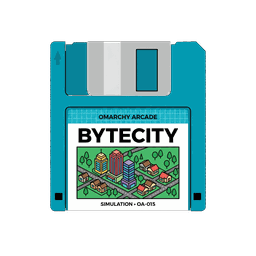
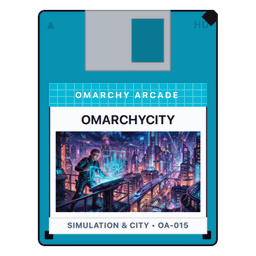
fix(docs): clarify floppy disk architecture, add automated render tool, and re-render bytecity from FloppyCard

diff --git a/tools/render_disk.py b/tools/render_disk.py
@@ -1,0 +1,155 @@
+#!/usr/bin/env python3
+"""
+Omarchy Arcade • Standard Floppy Disk Renderer
+Renders pixel-perfect, 1024x1024 and 256x256 3.5" floppy diskette cover art
+directly from launcher/FloppyCard.qml and catalog.json.
+
+Usage:
+    python tools/render_disk.py <game_id>
+    python tools/render_disk.py --all
+"""
+
+import os
+import sys
+import json
+import argparse
+from pathlib import Path
+from PIL import Image
+
+# Ensure project root is in working directory
+PROJECT_ROOT = Path(__file__).resolve().parent.parent
+os.chdir(PROJECT_ROOT)
+
+def render_floppy(game_id: str, catalog: dict):
+    from PySide6.QtGui import QGuiApplication, QImage, QPainter
+    from PySide6.QtQuick import QQuickView
+    from PySide6.QtCore import QUrl, QTimer, Qt, QRect
+
+    game_data = next((g for g in catalog.get("games", []) if g["id"] == game_id), None)
+    if not game_data:
+        print(f"Error: Game '{game_id}' not found in catalog.json", file=sys.stderr)
+        return False
+
+    print(f"Rendering floppy disk for {game_data.get('title', game_id)} ({game_id})...")
+
+    # Temporary QML wrapper
+    temp_qml = PROJECT_ROOT / f".temp_render_{game_id}.qml"
+    qml_content = """import QtQuick
+import "launcher"
+
+FloppyCard {
+    id: card
+    gameData: null
+}
+"""
+    temp_qml.write_text(qml_content, encoding="utf-8")
+
+    app = QGuiApplication.instance() or QGuiApplication(sys.argv[:1])
+
+    view = QQuickView()
+    view.setColor(Qt.transparent)
+    view.setSource(QUrl.fromLocalFile(str(temp_qml)))
+
+    root = view.rootObject()
+    if not root:
+        print(f"Error: Failed to load FloppyCard.qml", file=sys.stderr)
+        temp_qml.unlink(missing_ok=True)
+        return False
+
+    root.setProperty("gameData", game_data)
+    view.resize(220, 286)
+    view.show()
+
+    success = [False]
+
+    def on_grab(res):
+        try:
+            raw_img = res.image()
+            # Render onto 1024x1024 transparent square canvas
+            canvas = QImage(1024, 1024, QImage.Format_ARGB32_Premultiplied)
+            canvas.fill(Qt.transparent)
+
+            painter = QPainter(canvas)
+            painter.setRenderHint(QPainter.SmoothPixmapTransform)
+
+            target_h = 972
+            target_w = int(raw_img.width() * (target_h / raw_img.height()))
+            x = (1024 - target_w) // 2
+            y = (1024 - target_h) // 2
+            painter.drawImage(QRect(x, y, target_w, target_h), raw_img)
+            painter.end()
+
+            # Save temporary raw 1024x1024
+            temp_raw = PROJECT_ROOT / f".temp_raw_{game_id}.png"
+            canvas.save(str(temp_raw), "PNG")
+
+            # Process with PIL for palette quantization (featherweight file size)
+            pil_img = Image.open(temp_raw).convert("RGBA")
+            temp_raw.unlink(missing_ok=True)
+
+            # 1. 1024x1024 cover disk
+            out_disk = PROJECT_ROOT / "assets" / "covers" / f"{game_id}_disk.png"
+            out_disk.parent.mkdir(parents=True, exist_ok=True)
+            disk_quant = pil_img.quantize(colors=256, method=Image.Quantize.FASTOCTREE)
+            disk_quant.save(str(out_disk), "PNG", optimize=True)
+            print(f"  -> Saved {out_disk.relative_to(PROJECT_ROOT)} ({out_disk.stat().st_size / 1024:.1f} KB)")
+
+            # 2. 256x256 in-game disk app icon
+            game_folder = PROJECT_ROOT / game_data.get("folder", f"games/{game_id}")
+            out_icon = game_folder / "assets" / "disk_icon.png"
+            out_icon.parent.mkdir(parents=True, exist_ok=True)
+            icon_256 = pil_img.resize((256, 256), Image.Resampling.LANCZOS)
+            icon_quant = icon_256.quantize(colors=256, method=Image.Quantize.FASTOCTREE)
+            icon_quant.save(str(out_icon), "PNG", optimize=True)
+            print(f"  -> Saved {out_icon.relative_to(PROJECT_ROOT)} ({out_icon.stat().st_size / 1024:.1f} KB)")
+
+            success[0] = True
+        except Exception as e:
+            print(f"Error saving floppy renders: {e}", file=sys.stderr)
+        finally:
+            temp_qml.unlink(missing_ok=True)
+            view.close()
+            app.quit()
+
+    def do_grab():
+        grab_res = root.grabToImage()
+        if grab_res:
+            grab_res.ready.connect(lambda: on_grab(grab_res))
+        else:
+            print("Error: grabToImage returned null", file=sys.stderr)
+            temp_qml.unlink(missing_ok=True)
+            view.close()
+            app.quit()
+
+    QTimer.singleShot(600, do_grab)
+    app.exec()
+
+    temp_qml.unlink(missing_ok=True)
+    return success[0]
+
+def main():
+    parser = argparse.ArgumentParser(description="Render official 3.5\" floppy disk cover art and app icons.")
+    parser.add_argument("game_id", nargs="?", help="ID of the game to render (e.g. bytecity)")
+    parser.add_argument("--all", action="store_true", help="Render floppy disks for all games in catalog.json")
+    args = parser.parse_args()
+
+    catalog_path = PROJECT_ROOT / "catalog.json"
+    if not catalog_path.exists():
+        print("Error: catalog.json not found", file=sys.stderr)
+        sys.exit(1)
+
+    catalog = json.loads(catalog_path.read_text(encoding="utf-8"))
+
+    if args.all:
+        for game in catalog.get("games", []):
+            gid = game["id"]
+            render_floppy(gid, catalog)
+    elif args.game_id:
+        if not render_floppy(args.game_id, catalog):
+            sys.exit(1)
+    else:
+        parser.print_help()
+        sys.exit(1)
+
+if __name__ == "__main__":
+    main()

diff --git a/assets/COVER_ART_GUIDE.md b/assets/COVER_ART_GUIDE.md
@@ -1,63 +1,77 @@
 # Omarchy Arcade • Cover Art & Floppy Disk Design System
 
-A standardized prompt engineering and visual design guide for generating **Flat 2D Vector Floppy Disk Cover Art** for the Omarchy Arcade Launcher ("Mini Steam").
+A standardized guide for the **Omarchy Arcade Cover Art & Floppy Disk Pipeline**.
+
+> [!IMPORTANT]
+> **THE LAUNCHER DRAWS FLOPPY DISKS PROCEDURALLY:**
+> 1. The launcher (`launcher/main.qml`) dynamically renders all 3.5" floppy disks using [`launcher/FloppyCard.qml`](file:///Users/christhompson/arcade/launcher/FloppyCard.qml).
+> 2. Chassis colors, grid header colors, titles, and reference codes are driven from [`catalog.json`](file:///Users/christhompson/arcade/catalog.json).
+> 3. `assets/covers/<game_id>.png` is the **4:3 painted retro box art** (1200×896) loaded *inside* the floppy disk label's art window.
+> 4. Static disk icons (`assets/covers/<id>_disk.png` and `games/<id>/assets/disk_icon.png`) are **never AI-generated**; they are rendered directly from `FloppyCard.qml` using:
+>    ```bash
+>    .venv/bin/python tools/render_disk.py <game_id>
+>    ```
 
 ---
 
-## 1. Visual Standard & Style Directives
+## 1. The Cover Art Specification (`assets/covers/<game_id>.png`)
 
-All game covers must strictly follow these aesthetic guidelines to maintain complete visual cohesion across the entire arcade catalog:
+All game cover images must be pure game artwork (no floppy frames, no text overlays):
 
-1. **Format & Ratio:** **`3:4` Vertical Portrait** (Steam capsule standard).
-2. **Perspective:** Perfectly flat, 2D straight-on front orthographic vector illustration.
-3. **No 3D Realism:** Zero photographic textures, zero realistic lighting, zero 3D rendering, zero gloss/reflections, zero drop shadows.
-4. **Background:** Pure solid black (`#000000`) surrounding the isolated floppy disk silhouette.
-5. **Physical Hardware Details:**
-   * 3.5" HD floppy diskette chassis with classic beveled corners, slider track, and write-protect notch.
-   * Flat silver or gray metal sliding shutter at the top with clean rectangular window cutouts.
-6. **Sega Master System Label Layout:**
-   * **Top Banner:** Subtle vector grid pattern header with `OMARCHY ARCADE` typography.
-   * **Center Title:** Bold, clean 2D retro arcade typography.
-   * **Center Graphic Window:** Clean flat 2D geometric vector or pixel illustration showing the game's core action.
-   * **Bottom Technical Strip:** `[CATEGORY] • OA-[REF_NUMBER]` *(Never include MB sizes to avoid user confusion and keep artwork version-independent)*.
+1. **Dimensions & Aspect Ratio:** **1200 × 896** (standard `4:3` retro box art format).
+2. **Subject Matter:** The game's hero action scene, characters, or environment painted in rich retro arcade or anime aesthetic.
+3. **Typography & Borders:** **STRICTLY NO TEXT, NO LOGOS, NO FLOPPY FRAMES**. The floppy label, title, and borders are drawn automatically by `FloppyCard.qml`.
+4. **Placement:** Saved directly to `assets/covers/<game_id>.png` and referenced in `catalog.json` under `"cover_image"`.
 
 ---
 
-## 2. Category-to-Floppy Color Standard
+## 2. Category-to-Floppy Color Standard (`catalog.json`)
 
-To give players an instant visual cue across the launcher library, every game category maps to a distinct, historically authentic 3.5" diskette color:
+Every game category maps to a distinct 3.5" diskette color in `catalog.json`:
 
 | Category | Floppy Disk Body Tone | Hex Ref | Historical Inspiration | Games in Suite |
 | :--- | :--- | :--- | :--- | :--- |
-| **Action Arcade** | **Matte Black / Charcoal** | `#232328` | Standard Sony / Maxell HD arcade & console disks | *ByteMan*, *GalacticSwarm*, *VoidInvaders*, *VectorDrift*, *BrickBash*, *CyberHop*, *CyberFlap*, *DinoRunner* |
+| **Action Arcade** | **Matte Black / Charcoal** | `#232328` | Standard Sony / Maxell HD arcade & console disks | *ByteMan*, *GalacticSwarm*, *VoidInvaders*, *VectorDrift*, *BrickBash*, *CyberHop*, *CyberFlap*, *DinoRunner*, *KeiRacer*, *OmarchyBolo II* |
 | **Puzzles & Grid Logic** | **Emerald / Forest Green** | `#059669` | Verbatim Eco & Rainbow Series | *GemSwap*, *CratePusher*, *ByteSnake*, *CyberSweeper* |
 | **Blocks & Merging** | **Tangerine / Sunset Orange**| `#EA580C` | Sony Neon Floppy line | *2048*, *TetraBlocks* |
-| **Board & Tabletop** | **Classic Cream / Beige** | `#E6DFD3` | Vintage 80s IBM PC, Amiga, and Atari ST diskettes | *DropFour*, *VectorPong* *(Future: Chess, Checkers, Othello)* |
-| **Word & Trivia** | **Clean Pure White** | `#F0F0F2` | 90s Shareware & encyclopedia companion disks | *WordGuess* *(Future: WordWheel, WordGrid)* |
+| **Board & Tabletop** | **Classic Cream / Beige** | `#E6DFD3` | Vintage 80s IBM PC, Amiga, and Atari ST diskettes | *DropFour*, *VectorPong*, *Chess*, *Checkers*, *Backgammon*, *Reversi* |
+| **Word & Trivia** | **Clean Pure White** | `#F0F0F2` | 90s Shareware & encyclopedia companion disks | *WordGuess* |
 | **Simulation & City** | **Neon Teal / Cyan** | `#0891B2` | Sony Color Collection & CAD / engineering disks | *ByteCity* |
-| **Casual Aim & Physics**| **Vibrant Violet / Purple** | `#7C3AED` | Imation 90s Creative Series | *OrbPop* *(Future: NeonDrop / Peggle)* |
-| *Cards & Casino (Future)*| *Ruby / Cherry Red* | `#DC2626` | 3M Performance Series (playing card suits) | *Blackjack, Spades, Solitaire* |
-| *Memory & Sound (Future)*| *Canary Yellow* | `#EAB308` | Memorex High-Visibility Disks | *ChromaTone, PairMatch* |
-| *Roguelite / RPG (Future)*| *Cobalt / Royal Blue* | `#1D4ED8` | 90s UNIX / PC Dungeon diskettes | *TinyCrawl* |
+| **Casual Aim & Physics**| **Vibrant Violet / Purple** | `#7C3AED` | Imation 90s Creative Series | *OrbPop*, *Bīdama* |
+| **Cards & Casino** | **Ruby / Cherry Red** | `#DC2626` | 3M Performance Series (playing card suits) | *Blackjack, Solitaire, Video Poker* |
+| *Action & Pinball* | *Vibrant Violet / Purple* | `#7C3AED` | 90s Space Cadet & arcade neon | *Omarchy Cadet* |
 
 ---
 
-## 3. The Reusable Master Prompt Formula
+## 3. Box Art Prompt Formula (for `generate_image`)
+
+When creating new cover box art for `assets/covers/<game_id>.png`:
 
 ```
-A flat 2D vector graphic illustration of a 3.5-inch retro computer floppy disk, completely flat minimalist graphic design, no 3D lighting, no photographic realism, no drop shadows, no gradients. Centered isolated floppy disk on a pure solid white background (#FFFFFF). 
-The disk body is flat [FLOPPY_COLOR] plastic with clean geometric cutouts, a high-density HD notch, and a flat [SHUTTER_COLOR] metal shutter at the top. 
-On the disk is a crisp flat adhesive label in classic Sega Master System packaging style: 
-a subtle [GRID_COLOR] vector grid header with 'OMARCHY ARCADE' text, 
-bold clean 2D retro title '[GAME_TITLE]', 
-and a flat 2D geometric vector illustration showing [GAME_HERO_ILLUSTRATION]. 
-At the bottom of the label in small crisp typography: '[CATEGORY] • OA-[REF_NUMBER]'. 
-Clean line art, flat vector icon aesthetic, solid vibrant colors, sticker graphic design.
+A vibrant painted retro arcade box art illustration for [GAME_TITLE]. 
+Depicting [GAME_HERO_ACTION_SCENE] in a rich 1980s / 1990s Japanese arcade aesthetic, 
+dynamic lighting, dramatic composition, and fine detailed styling. 
+STRICTLY NO TEXT, NO LETTERS, NO TYPOGRAPHY, NO LOGOS, NO PUBLISHER BADGES, NO FLOPPY DISK FRAMES. 
+Pure full-bleed game scene artwork in 4:3 aspect ratio.
 ```
 
 ---
 
-## 4. Pre-Engineered Prompts for All 19 Shipped Games
+## 4. Exporting Static Diskette Icons (`tools/render_disk.py`)
+
+After adding or updating a game in `catalog.json` with its cover art in `assets/covers/<game_id>.png`:
+
+```bash
+# Render a single game's disk
+.venv/bin/python tools/render_disk.py <game_id>
+
+# Or render all games in the catalog
+.venv/bin/python tools/render_disk.py --all
+```
+
+This updates:
+1. `assets/covers/<game_id>_disk.png` (1024×1024 RGBA transparent)
+2. `games/<game_id>/assets/disk_icon.png` (256×256 RGBA transparent)
 
 ### 1. `2048` (Ref: `OA-001`)
 * **Category:** Blocks & Merging
